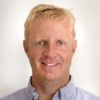
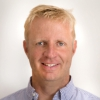
consolidated post view, added placerholder.jpg as default to image field in DB

diff --git a/css/styles.css b/css/styles.css
@@ -216,3 +216,7 @@ fieldset[disabled] .btn-custom.active {
  .post {
  	background-color: #FFF3CA;
  }
+
+ .postform {
+ 	margin: 0 25px;
+ }

diff --git a/views/v_users_profile.php b/views/v_users_profile.php
@@ -6,18 +6,13 @@
             <h4>How the world sees you</h4>
             <p>Why not keep your profile looking snazzy with a nice picture of your fine self?</p>
             <form role="form" method='POST' enctype="multipart/form-data" action='/users/profile_update/'>
-            
-            <?php if ($user->image): ?>
-            	<img src="/uploads/avatars/<?= $user->image ?>" alt="<?=$user->first_name . ' ' . $user->last_name ?>">
-        	<?php else: ?>
-        		<img src="/uploads/avatars/placeholder-person.jpg" alt="No image uploaded">
-    		<?php endif ?>
-    		
-    		<div class="form-group">
-    			<label for="exampleInputFile">Your Profile Image</label>
-    			<input type="file" id="avatar" name="avatar">
-    		</div>
-    		<button type="submit" class="btn btn-custom">Update Your Profile</button>
+            	<img src="/uploads/avatars/<?= $user->image ?>" alt="<?=$user->first_name . ' ' . $user->last_name ?>">    		
+        		<div class="form-group">
+        			<label for="exampleInputFile">Your Profile Image</label>
+        			<input type="file" id="avatar" name="avatar">
+        		</div>
+        		<button type="submit" class="btn btn-custom">Update Your Profile</button>
+            </form>      
         </div> 
         <div class="page-header">
             <h4>Your followers</h4>  

diff --git a/controllers/c_posts.php b/controllers/c_posts.php
@@ -7,7 +7,7 @@ class posts_controller extends base_controller {
 
         # Make sure user is logged in if they want to use anything in this controller
         if(!$this->user) {
-            die("Members only. <a href='/users/login'>Login</a>");
+            Router::redirect("/");
         }
     }
 
@@ -25,7 +25,8 @@ class posts_controller extends base_controller {
                 users.image
             FROM posts
             INNER JOIN users 
-                ON posts.user_id = users.user_id";
+                ON posts.user_id = users.user_id
+            ORDER BY created DESC";
 
         # Run the query
         $posts = DB::instance(DB_NAME)->select_rows($q);
@@ -62,8 +63,8 @@ class posts_controller extends base_controller {
         # Note we didn't have to sanitize any of the $_POST data because we're using the insert method which does it for us
         DB::instance(DB_NAME)->insert('posts', $_POST);
 
-        # Quick and dirty feedback
-        echo "Your post has been added. <a href='/posts/add'>Add another</a>";
+        # Show the new post by refreshing the post page
+        Router::redirect("/posts/");
 
     }
 }

diff --git a/views/_v_template.php b/views/_v_template.php
@@ -39,10 +39,13 @@
                         <ul class="nav navbar-nav">
                             <?php if ($user) : ?>
                                 <li>
-                                    <a href='/users/logout'>Logout</a>
+                                    <a href='/posts'>View Posts</a>
+                                </li>                            
+                                <li>
+                                    <a href='/users/profile'>Your Profile</a>
                                 </li>
                                 <li>
-                                    <a href='/users/profile'>Profile</a>
+                                    <a href='/users/logout'>Logout</a>
                                 </li>
                             <?php else: ?>
                                 <li>

diff --git a/views/v_posts_index.php b/views/v_posts_index.php
@@ -1,9 +1,23 @@
+
+
+<article>
+	<div class="row">
+		<div class="col-sm-1">
+			<img class="img-circle avatar" src="/uploads/avatars/<?= $user->image ?>">
+		</div>
+		<div class="col-sm-11">
+			<form method='POST' action='/posts/p_add' class='postform'>
+			    <div class="form-group">
+			        <label for='content'>Add your own Blabb!</label>
+			        <textarea class="form-control" rows="3" name='content' id='content'></textarea>
+			    </div>
+			    <button type='submit' class="btn btn-custom">New Post</button>
+			</form> 
+	    </div>
+    </div>
+</article>
+
 <?php foreach($posts as $post): ?>
-<?php         
-	// send a picture to the view
-    if($post['image'] == '0')
-        $post['image'] = "placeholder-person.jpg";
-?>
 <article>
 	<div class="row">
 		<div class="col-sm-1">
